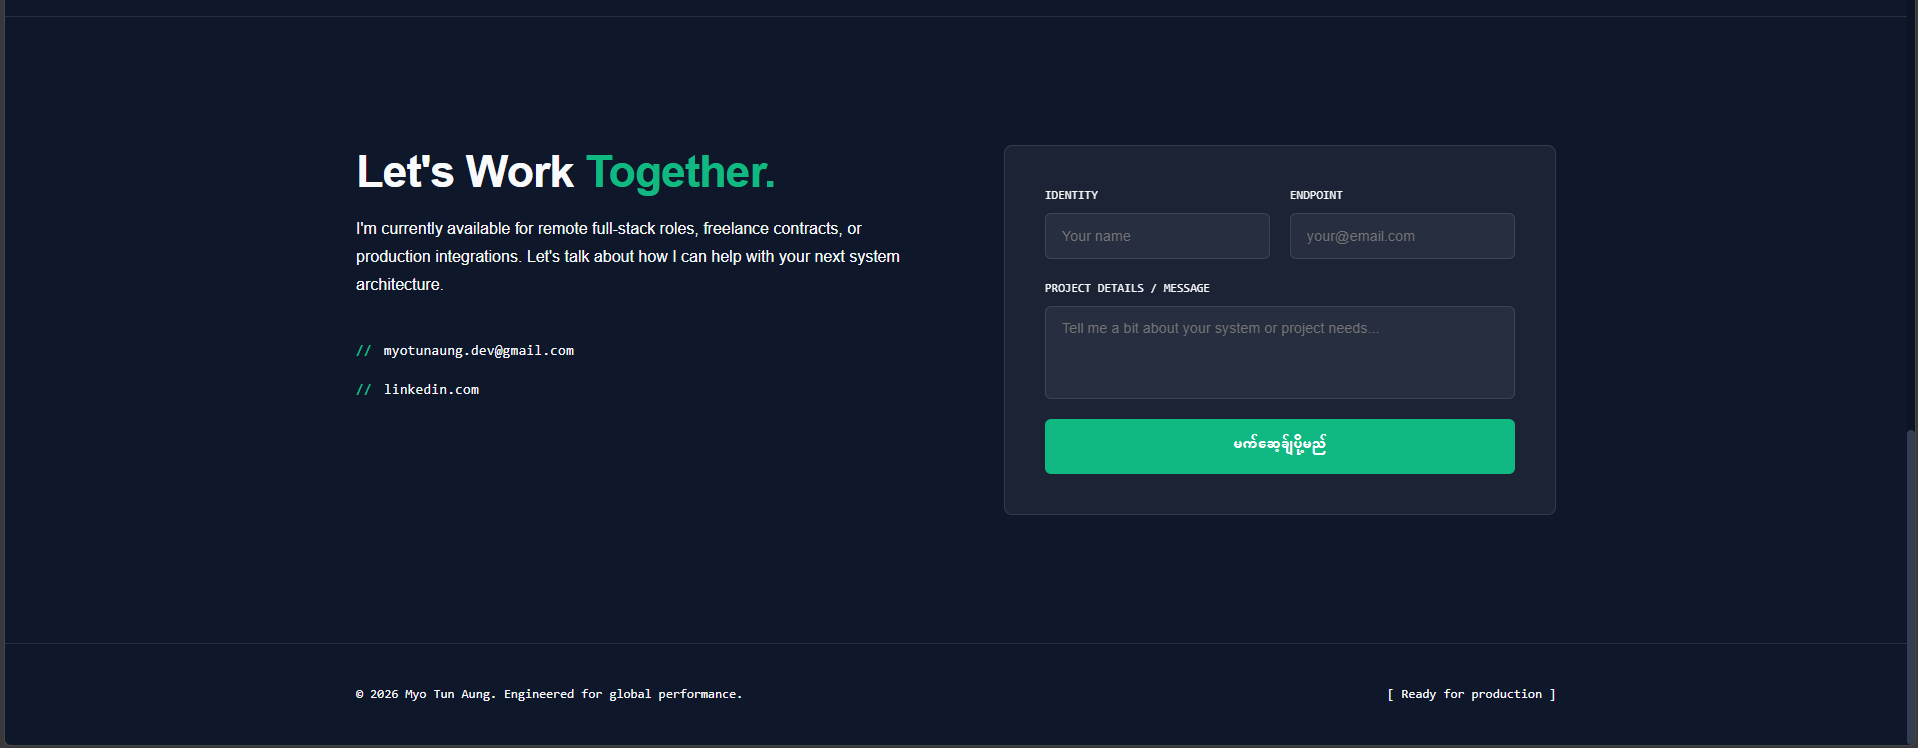
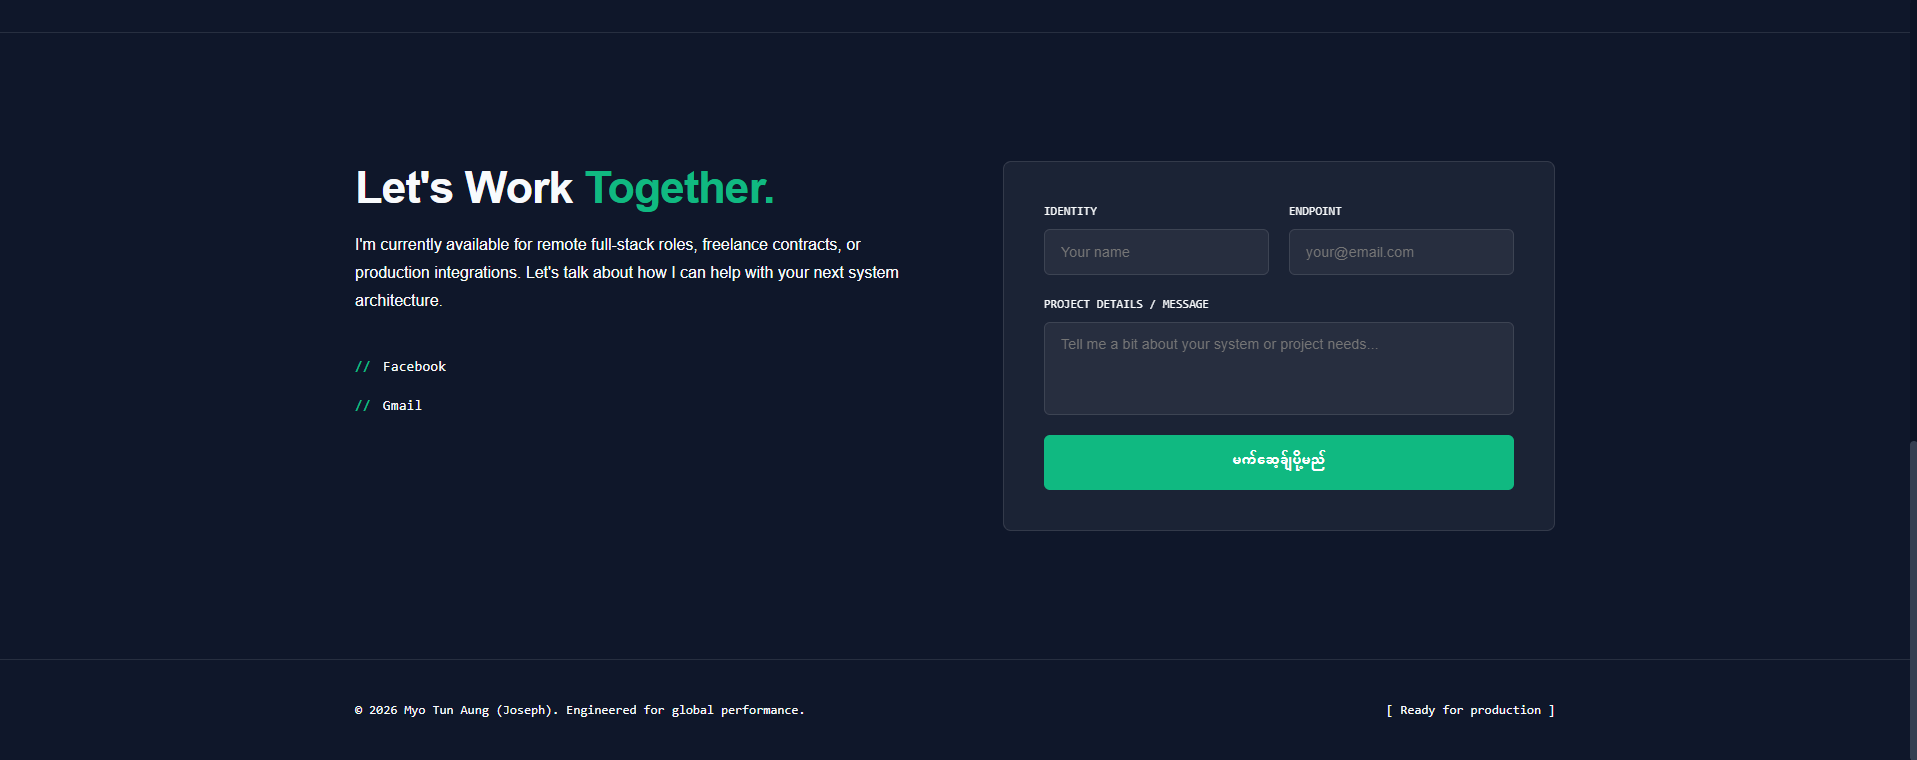
refactor: update profile details and migrate social links to env

diff --git a/src/components/Contact/Contact.jsx b/src/components/Contact/Contact.jsx
@@ -1,6 +1,7 @@
 import React, { useState, useEffect, useRef } from 'react';
 import { useTranslation } from 'react-i18next';
 import emailjs from '@emailjs/browser';
+import { siteConfig } from '../../config/siteConfig';
 import './Contact.css';
 
 export default function Contact() {
@@ -94,12 +95,12 @@ export default function Contact() {
                     <h2 className="contact-heading">{t('contact.heading1')} <em>{t('contact.heading2')}</em></h2>
                     <p className="contact-sub">{t('contact.sub')}</p>
                     <div className="contact-links">
-                        <a href="mailto:myotunaung.dev@gmail.com" className="contact-link">
-                            <span className="contact-link-icon">//</span> myotunaung.dev@gmail.com
+                        <a href={siteConfig.social.facebook} target="_blank" rel="noreferrer" className="contact-link">
+                            <span className="contact-link-icon">//</span> Facebook
                         </a>
 
-                        <a href="https://www.linkedin.com/" target="_blank" rel="noreferrer" className="contact-link">
-                            <span className="contact-link-icon">//</span> linkedin.com
+                        <a href={`mailto:${siteConfig.social.email}`} className="contact-link">
+                            <span className="contact-link-icon">//</span> Gmail
                         </a>
                     </div>
                 </div>
@@ -117,10 +118,10 @@ export default function Contact() {
                     </div>
                     <div className="form-field">
                         <label>{t('contact.form.messageLabel')}</label>
-                        <textarea 
-                            rows="4" 
-                            name="message" 
-                            placeholder={t('contact.form.messagePlaceholder')} 
+                        <textarea
+                            rows="4"
+                            name="message"
+                            placeholder={t('contact.form.messagePlaceholder')}
                             onChange={handleTextareaChange}
                             style={{ overflow: 'hidden', resize: 'none' }}
                             required

diff --git a/src/components/Hero/Hero.jsx b/src/components/Hero/Hero.jsx
@@ -1,5 +1,6 @@
 import React from 'react';
 import { useTranslation } from 'react-i18next';
+import { siteConfig } from '../../config/siteConfig';
 import './Hero.css';
 import profileImg from '../../assets/myo_tun_aung.jpg';
 
@@ -15,8 +16,8 @@ export default function Hero() {
                     {t('hero.description')}
                 </p>
                 <div className="hero-actions">
-                    <a href="https://www.upwork.com" target="_blank" rel="noreferrer" className="btn-primary">{t('hero.hireMe')}</a>
-                    <a href="https://github.com/myotunaungdev-pro" target="_blank" rel="noreferrer" className="btn-ghost">{t('hero.github')}</a>
+                    <a href={siteConfig.social.github} target="_blank" rel="noreferrer" className="btn-primary">{t('hero.github')}</a>
+                    <a href={siteConfig.social.linkedin} target="_blank" rel="noreferrer" className="btn-ghost">{t('hero.linkedin')}</a>
                 </div>
             </div>
 

diff --git a/src/data/projects.js b/src/data/projects.js
@@ -1,4 +1,6 @@
-[
+import { siteConfig } from '../config/siteConfig';
+
+const projects = [
     {
         "id": "proj-001",
         "name": {
@@ -22,7 +24,7 @@
             "i18next",
             "Stripe API"
         ],
-        "githubLink": "https://github.com/myotunaungdev-pro/min-note",
+        "githubLink": `${siteConfig.social.github}/min-note`,
         "liveLink": "https://min-note.vercel.app/",
         "image": "/assets/",
         "isFeatured": true
@@ -47,9 +49,11 @@
             "CSS",
             "Framer Motion"
         ],
-        "githubLink": "https://github.com/myotunaungdev-pro/portfolio",
+        "githubLink": `${siteConfig.social.github}/portfolio`,
         "liveLink": "",
         "image": "/assets/",
         "isFeatured": false
     }
-]
+];
+
+export default projects;

diff --git a/src/components/Contact/Contact.css b/src/components/Contact/Contact.css
@@ -42,6 +42,7 @@
 
 .contact-link {
     display: flex;
+    width: 45%;
     align-items: center;
     gap: 0.75rem;
     font-family: var(--font-mono);
@@ -115,7 +116,7 @@
 
 .btn-send {
     background: var(--accent-color);
-    color: #FFFFFF; /* Accessibility မြှင့်တင်ရန် အဖြူရောင်ပြောင်းထားသည် */
+    color: #FFFFFF;
     border: none;
     padding: 0.85rem 2rem;
     border-radius: 0.375rem;
@@ -143,6 +144,7 @@
         grid-template-columns: 1fr;
         gap: 3rem;
     }
+
     .form-row {
         grid-template-columns: 1fr;
     }

diff --git a/src/components/Navbar/Navbar.jsx b/src/components/Navbar/Navbar.jsx
@@ -25,7 +25,7 @@ export default function Navbar() {
     return (
         <nav className="nav-container">
             <div className="nav-brand">
-                <a href="#" className="nav-logo">Myo Tun Aung</a>
+                <a href="#" className="nav-logo">Myo Tun Aung (Joseph)</a>
             </div>
 
             <div className={`nav-menu ${isMobileMenuOpen ? 'active' : ''}`}>

diff --git a/src/config/siteConfig.js b/src/config/siteConfig.js
@@ -1,0 +1,8 @@
+export const siteConfig = {
+    social: {
+        github: import.meta.env.VITE_GITHUB_URL || '',
+        linkedin: import.meta.env.VITE_LINKEDIN_URL || '',
+        facebook: import.meta.env.VITE_FACEBOOK_URL || '',
+        email: import.meta.env.VITE_CONTACT_EMAIL || ''
+    }
+};

diff --git a/src/components/Projects/Projects.jsx b/src/components/Projects/Projects.jsx
@@ -1,6 +1,6 @@
 import React, { useEffect, useRef } from 'react';
 import { useTranslation } from 'react-i18next';
-import projectData from '../../data/projects.json';
+import projectData from '../../data/projects.js';
 import './Projects.css';
 
 export default function Projects() {

diff --git a/src/components/Projects/Projects.css b/src/components/Projects/Projects.css
@@ -9,7 +9,6 @@
     border: 1px solid var(--border-color);
     border-radius: 0.5rem;
     overflow: hidden;
-    cursor: pointer;
     padding: 2.5rem;
     opacity: 0;
     transform: translateY(16px);
